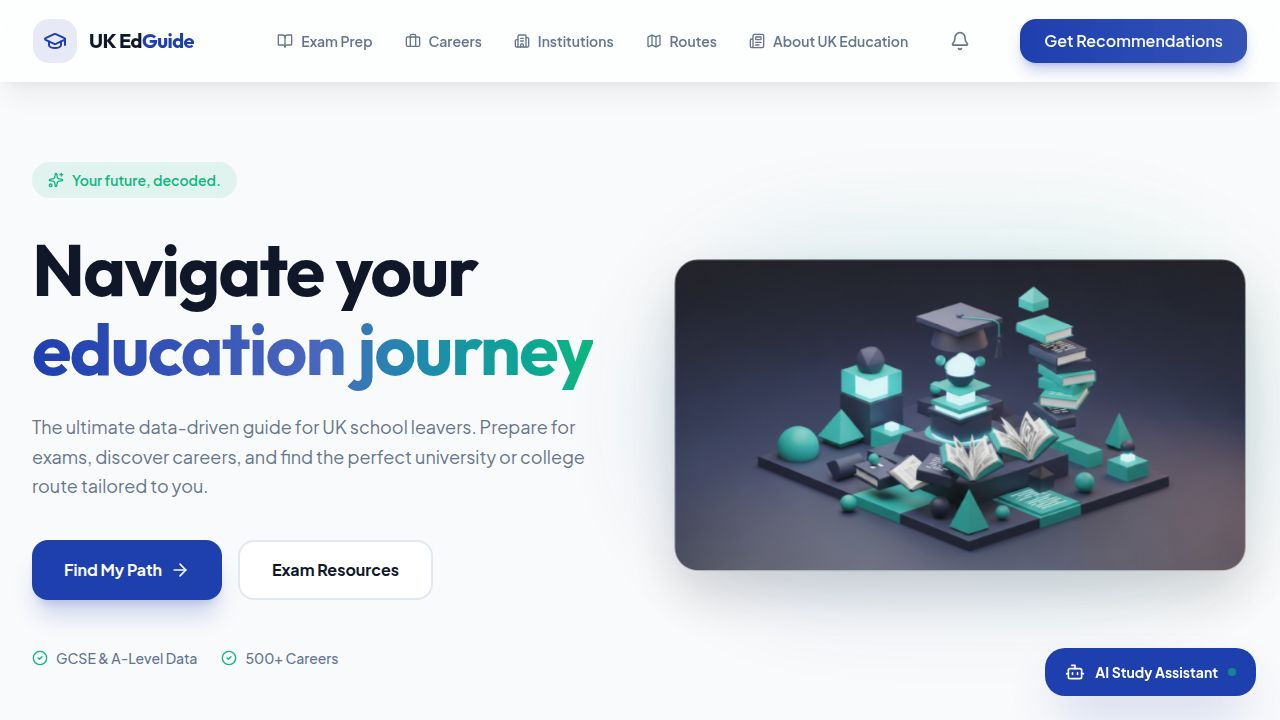
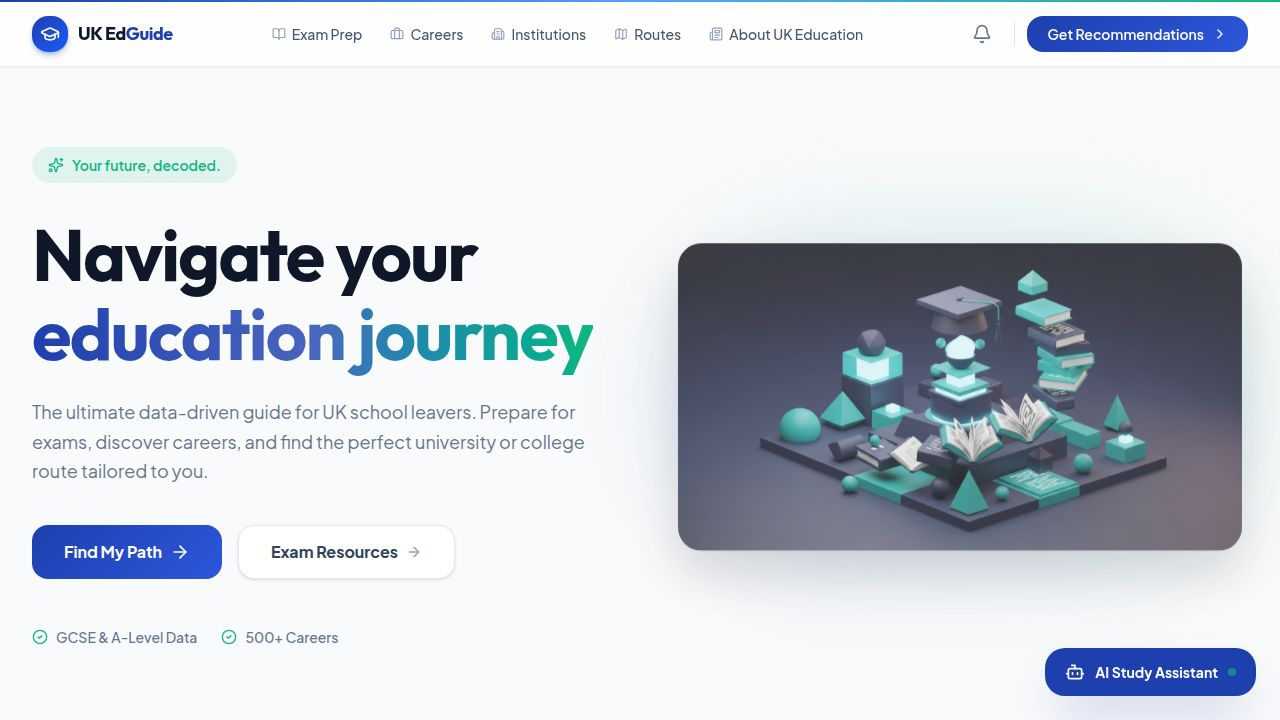
Enhance website navigation and button styles with a polished, modern look
Update the Navbar component with a gradient accent, refined logo, and interactive nav items. Improve hero buttons on the Home page with gradient and shimmer effects.

Replit-Commit-Author: Agent
Replit-Commit-Session-Id: 71be2178-80ac-4081-bbe0-8395f624f365
Replit-Commit-Checkpoint-Type: full_checkpoint
Replit-Commit-Event-Id: 699c4172-03c9-4b97-90e0-e41a0b1c2910
Replit-Commit-Screenshot-Url: https://storage.googleapis.com/screenshot-production-us-central1/df549543-32b7-49b4-84a8-8cbe87d7eb40/71be2178-80ac-4081-bbe0-8395f624f365/CsJMGMo
Replit-Helium-Checkpoint-Created: true

diff --git a/artifacts/uk-education-guide/src/components/layout/Navbar.tsx b/artifacts/uk-education-guide/src/components/layout/Navbar.tsx
@@ -1,5 +1,5 @@
 import { Link, useLocation } from "wouter";
-import { GraduationCap, Map, BookOpen, Briefcase, Building2, Menu, X, Newspaper } from "lucide-react";
+import { GraduationCap, Map, BookOpen, Briefcase, Building2, Menu, X, Newspaper, ChevronRight } from "lucide-react";
 import { useState } from "react";
 import { motion, AnimatePresence } from "framer-motion";
 import { RecruitmentAlerts } from "@/components/RecruitmentAlerts";
@@ -17,52 +17,79 @@ export function Navbar() {
   ];
 
   return (
-    <header className="sticky top-0 z-50 w-full glass border-b">
-      <div className="max-w-7xl mx-auto px-4 sm:px-6 lg:px-8">
-        <div className="flex justify-between items-center h-20">
-          {/* Logo */}
-          <Link href="/" className="flex items-center gap-3 group">
-            <div className="bg-primary/10 p-2.5 rounded-xl group-hover:bg-primary/20 transition-colors">
-              <GraduationCap className="w-6 h-6 text-primary" />
-            </div>
-            <span className="font-display font-bold text-xl tracking-tight">
-              UK Ed<span className="text-primary">Guide</span>
-            </span>
-          </Link>
+    <header className="sticky top-0 z-50 w-full">
+      {/* Accent top line */}
+      <div className="h-0.5 bg-gradient-to-r from-primary via-blue-400 to-accent" />
 
-          {/* Desktop Nav */}
-          <nav className="hidden md:flex items-center gap-8">
-            {navItems.map((item) => {
-              const isActive = location.startsWith(item.href);
-              return (
-                <Link
-                  key={item.href}
-                  href={item.href}
-                  className={`flex items-center gap-2 text-sm font-semibold transition-colors ${
-                    isActive ? "text-primary" : "text-muted-foreground hover:text-foreground"
-                  }`}
-                >
-                  <item.icon className={`w-4 h-4 ${isActive ? "text-primary" : ""}`} />
-                  {item.name}
-                </Link>
-              );
-            })}
-            <RecruitmentAlerts />
-            <Link
-              href="/quiz"
-              className="ml-2 px-6 py-2.5 rounded-xl font-semibold bg-gradient-to-r from-primary to-primary/90 text-primary-foreground shadow-lg shadow-primary/25 hover:shadow-xl hover:shadow-primary/30 hover:-translate-y-0.5 active:translate-y-0 transition-all duration-200"
-            >
-              Get Recommendations
+      <div className="bg-white/80 backdrop-blur-xl border-b border-slate-200/70 shadow-sm shadow-slate-900/5">
+        <div className="max-w-7xl mx-auto px-4 sm:px-6 lg:px-8">
+          <div className="flex justify-between items-center h-16">
+
+            {/* Logo */}
+            <Link href="/" className="flex items-center gap-2.5 group shrink-0">
+              <div className="relative">
+                <div className="w-9 h-9 rounded-xl bg-gradient-to-br from-primary to-blue-600 flex items-center justify-center shadow-md shadow-primary/30 group-hover:shadow-lg group-hover:shadow-primary/40 group-hover:scale-105 transition-all duration-200">
+                  <GraduationCap className="w-5 h-5 text-white" />
+                </div>
+              </div>
+              <span className="font-display font-bold text-lg tracking-tight text-slate-900">
+                UK Ed<span className="text-primary">Guide</span>
+              </span>
             </Link>
-          </nav>
 
-          {/* Mobile Menu Button */}
-          <button
-            className="md:hidden p-2 text-muted-foreground hover:text-foreground"
-            onClick={() => setIsMobileMenuOpen(!isMobileMenuOpen)}
-          >
-            {isMobileMenuOpen ? <X className="w-6 h-6" /> : <Menu className="w-6 h-6" />}
-          </button>
+            {/* Desktop Nav */}
+            <nav className="hidden md:flex items-center gap-1">
+              {navItems.map((item) => {
+                const isActive = location.startsWith(item.href);
+                return (
+                  <Link
+                    key={item.href}
+                    href={item.href}
+                    className={`relative flex items-center gap-1.5 px-3 py-1.5 rounded-lg text-sm font-medium transition-all duration-200 ${
+                      isActive
+                        ? "bg-primary/10 text-primary"
+                        : "text-slate-600 hover:text-slate-900 hover:bg-slate-100"
+                    }`}
+                  >
+                    <item.icon className={`w-3.5 h-3.5 shrink-0 ${isActive ? "text-primary" : "text-slate-400"}`} />
+                    {item.name}
+                    {isActive && (
+                      <motion.span
+                        layoutId="nav-active-dot"
+                        className="absolute bottom-0.5 left-1/2 -translate-x-1/2 w-1 h-1 rounded-full bg-primary"
+                      />
+                    )}
+                  </Link>
+                );
+              })}
+            </nav>
+
+            {/* Right side: bell + CTA */}
+            <div className="hidden md:flex items-center gap-2">
+              <RecruitmentAlerts />
+
+              <div className="w-px h-6 bg-slate-200 mx-1" />
+
+              <Link
+                href="/quiz"
+                className="group relative inline-flex items-center gap-2 px-5 py-2 rounded-xl font-semibold text-sm text-white overflow-hidden transition-all duration-200 hover:shadow-lg hover:shadow-primary/30 hover:-translate-y-0.5 active:translate-y-0"
+                style={{ background: "linear-gradient(135deg, hsl(226,71%,40%) 0%, hsl(226,71%,52%) 100%)" }}
+              >
+                {/* shimmer sweep */}
+                <span className="absolute inset-0 translate-x-[-100%] group-hover:translate-x-[100%] transition-transform duration-500 bg-gradient-to-r from-transparent via-white/20 to-transparent skew-x-[-20deg]" />
+                Get Recommendations
+                <ChevronRight className="w-4 h-4 transition-transform duration-200 group-hover:translate-x-0.5" />
+              </Link>
+            </div>
+
+            {/* Mobile Menu Button */}
+            <button
+              className="md:hidden p-2 rounded-lg text-slate-500 hover:text-slate-900 hover:bg-slate-100 transition-colors"
+              onClick={() => setIsMobileMenuOpen(!isMobileMenuOpen)}
+            >
+              {isMobileMenuOpen ? <X className="w-5 h-5" /> : <Menu className="w-5 h-5" />}
+            </button>
+          </div>
         </div>
       </div>
 
@@ -70,12 +97,13 @@ export function Navbar() {
       <AnimatePresence>
         {isMobileMenuOpen && (
           <motion.div
-            initial={{ opacity: 0, height: 0 }}
-            animate={{ opacity: 1, height: "auto" }}
-            exit={{ opacity: 0, height: 0 }}
-            className="md:hidden border-t bg-background"
+            initial={{ opacity: 0, y: -8 }}
+            animate={{ opacity: 1, y: 0 }}
+            exit={{ opacity: 0, y: -8 }}
+            transition={{ duration: 0.18 }}
+            className="md:hidden bg-white border-b border-slate-200 shadow-xl shadow-slate-900/10"
           >
-            <nav className="flex flex-col px-4 py-6 gap-4">
+            <nav className="flex flex-col px-4 py-4 gap-1">
               {navItems.map((item) => {
                 const isActive = location.startsWith(item.href);
                 return (
@@ -83,22 +111,29 @@ export function Navbar() {
                     key={item.href}
                     href={item.href}
                     onClick={() => setIsMobileMenuOpen(false)}
-                    className={`flex items-center gap-3 px-4 py-3 rounded-xl font-medium ${
-                      isActive ? "bg-primary/10 text-primary" : "text-muted-foreground hover:bg-slate-50"
+                    className={`flex items-center gap-3 px-4 py-2.5 rounded-xl font-medium text-sm transition-all ${
+                      isActive
+                        ? "bg-primary/10 text-primary"
+                        : "text-slate-600 hover:bg-slate-50 hover:text-slate-900"
                     }`}
                   >
-                    <item.icon className="w-5 h-5" />
+                    <item.icon className={`w-4 h-4 ${isActive ? "text-primary" : "text-slate-400"}`} />
                     {item.name}
                   </Link>
                 );
               })}
-              <Link
-                href="/quiz"
-                onClick={() => setIsMobileMenuOpen(false)}
-                className="mt-4 flex items-center justify-center gap-2 px-4 py-3 rounded-xl font-bold bg-primary text-primary-foreground"
-              >
-                Get Recommendations
-              </Link>
+
+              <div className="pt-3 mt-2 border-t border-slate-100">
+                <Link
+                  href="/quiz"
+                  onClick={() => setIsMobileMenuOpen(false)}
+                  className="flex items-center justify-center gap-2 px-4 py-3 rounded-xl font-bold text-sm text-white"
+                  style={{ background: "linear-gradient(135deg, hsl(226,71%,40%) 0%, hsl(226,71%,52%) 100%)" }}
+                >
+                  Get Recommendations
+                  <ChevronRight className="w-4 h-4" />
+                </Link>
+              </div>
             </nav>
           </motion.div>
         )}

diff --git a/artifacts/uk-education-guide/src/pages/Home.tsx b/artifacts/uk-education-guide/src/pages/Home.tsx
@@ -32,15 +32,18 @@ export default function Home() {
               <div className="flex flex-wrap gap-4">
                 <Link
                   href="/quiz"
-                  className="px-8 py-4 rounded-xl font-bold bg-primary text-primary-foreground shadow-xl shadow-primary/20 hover:shadow-2xl hover:shadow-primary/30 hover:-translate-y-1 transition-all duration-300 flex items-center gap-2"
+                  className="group relative inline-flex items-center gap-2 px-8 py-3.5 rounded-xl font-bold text-white overflow-hidden transition-all duration-200 hover:shadow-xl hover:shadow-primary/35 hover:-translate-y-0.5 active:translate-y-0"
+                  style={{ background: "linear-gradient(135deg, hsl(226,71%,40%) 0%, hsl(226,71%,52%) 100%)" }}
                 >
-                  Find My Path <ArrowRight className="w-5 h-5" />
+                  <span className="absolute inset-0 translate-x-[-100%] group-hover:translate-x-[100%] transition-transform duration-500 bg-gradient-to-r from-transparent via-white/20 to-transparent skew-x-[-20deg]" />
+                  Find My Path <ArrowRight className="w-5 h-5 transition-transform duration-200 group-hover:translate-x-0.5" />
                 </Link>
                 <Link
                   href="/subjects"
-                  className="px-8 py-4 rounded-xl font-bold bg-white text-foreground border-2 border-slate-200 hover:border-primary/50 hover:bg-slate-50 transition-all duration-300"
+                  className="group inline-flex items-center gap-2 px-8 py-3.5 rounded-xl font-bold bg-white text-slate-700 border border-slate-200 hover:border-primary/40 hover:text-primary hover:bg-primary/5 shadow-sm hover:shadow-md transition-all duration-200"
                 >
                   Exam Resources
+                  <ArrowRight className="w-4 h-4 text-slate-400 group-hover:text-primary transition-colors duration-200 group-hover:translate-x-0.5 transition-transform" />
                 </Link>
               </div>
 